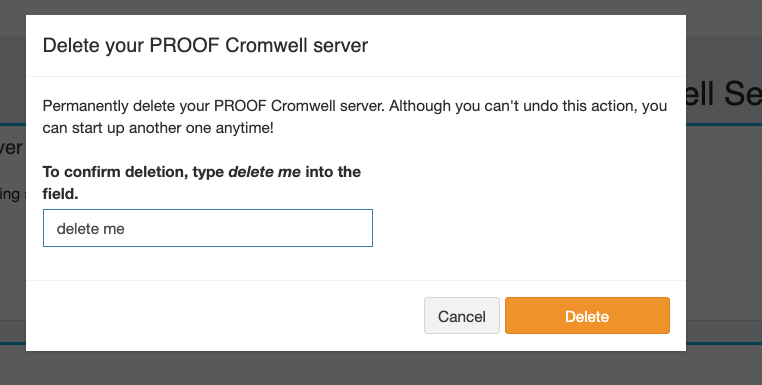
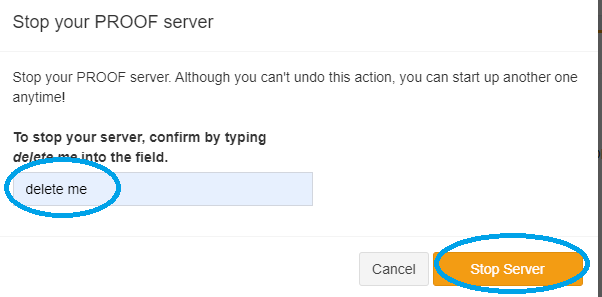
update with figures and adding process diagram

diff --git a/_datascience/proof.md b/_datascience/proof.md
@@ -92,6 +92,11 @@ This means that individual users can:
  
 > Quick note: the Cromwell server is referred to as a PROOF server in these instructions. PROOF handles setting up the Cromwell server for you.
 
+## The PROOF Process
+
+The following diagram shows basic usage of PROOF once you have done hte preliminary setup. Each box corresponds to a section in the documentation.
+
+![](/_datascience/assets/proof_101_workflow.png)
 
 # 2 - Preliminary Setup
 
@@ -319,15 +324,15 @@ Especially in the beginning if you have catastrophic workflow failures and you c
 
 > Note: this output is not for the faint of heart, but it will give you hints once you get used to understanding what Cromwell is telling you.  
 
-# 9 - Deleting a Proof server
+# 9 - Stopping a Proof server
 
 Finally if your workflow has finished running before the 7-day timeline (or whatever custom time you set up) you can go ahead and delete your Proof server. 
 
-Go back to the Proof server tab and click delete
+Go back to the Proof server tab and click Stop Server
 
 ![proof_101_shiny_app_delete_server_1](/_datascience/assets/proof_101_shiny_app_delete_server_1.png)
 
-A pop-up box will show up and ask you type out the words "delete me". This is an added measure so you don't accidently end your server.
+A pop-up box will show up and ask you type out the words "delete me". This is an added measure so you don't accidentally end your server.
 
 ![proof_101_shiny_app_delete_server_2](/_datascience/assets/proof_101_shiny_app_delete_server_2.png)
 
